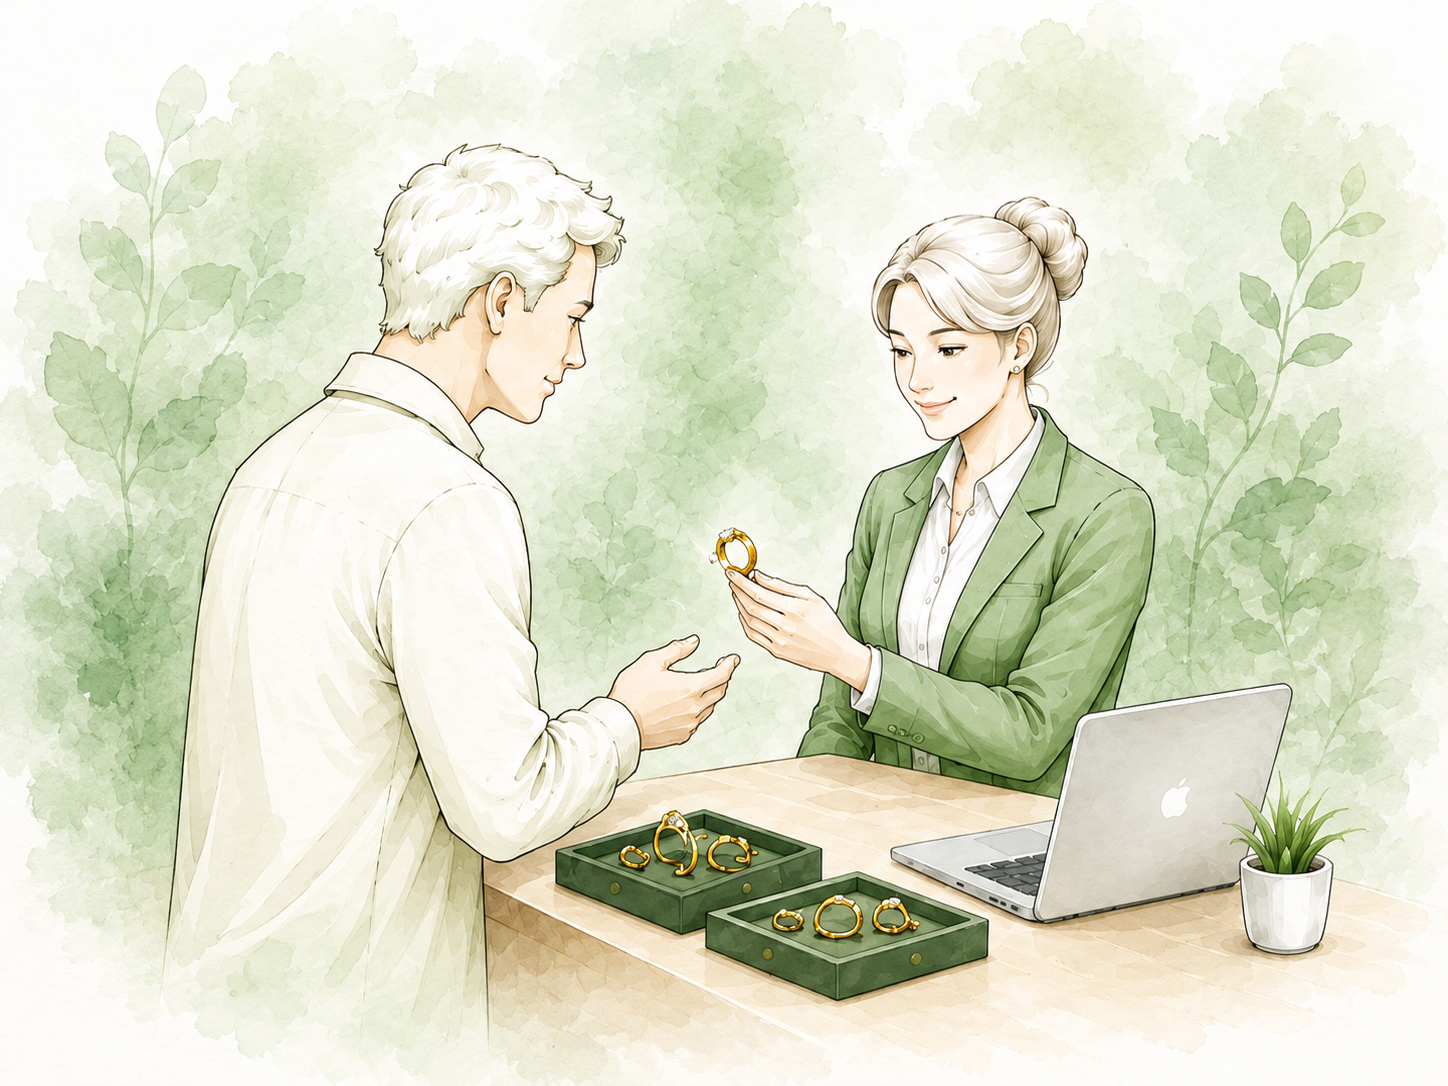
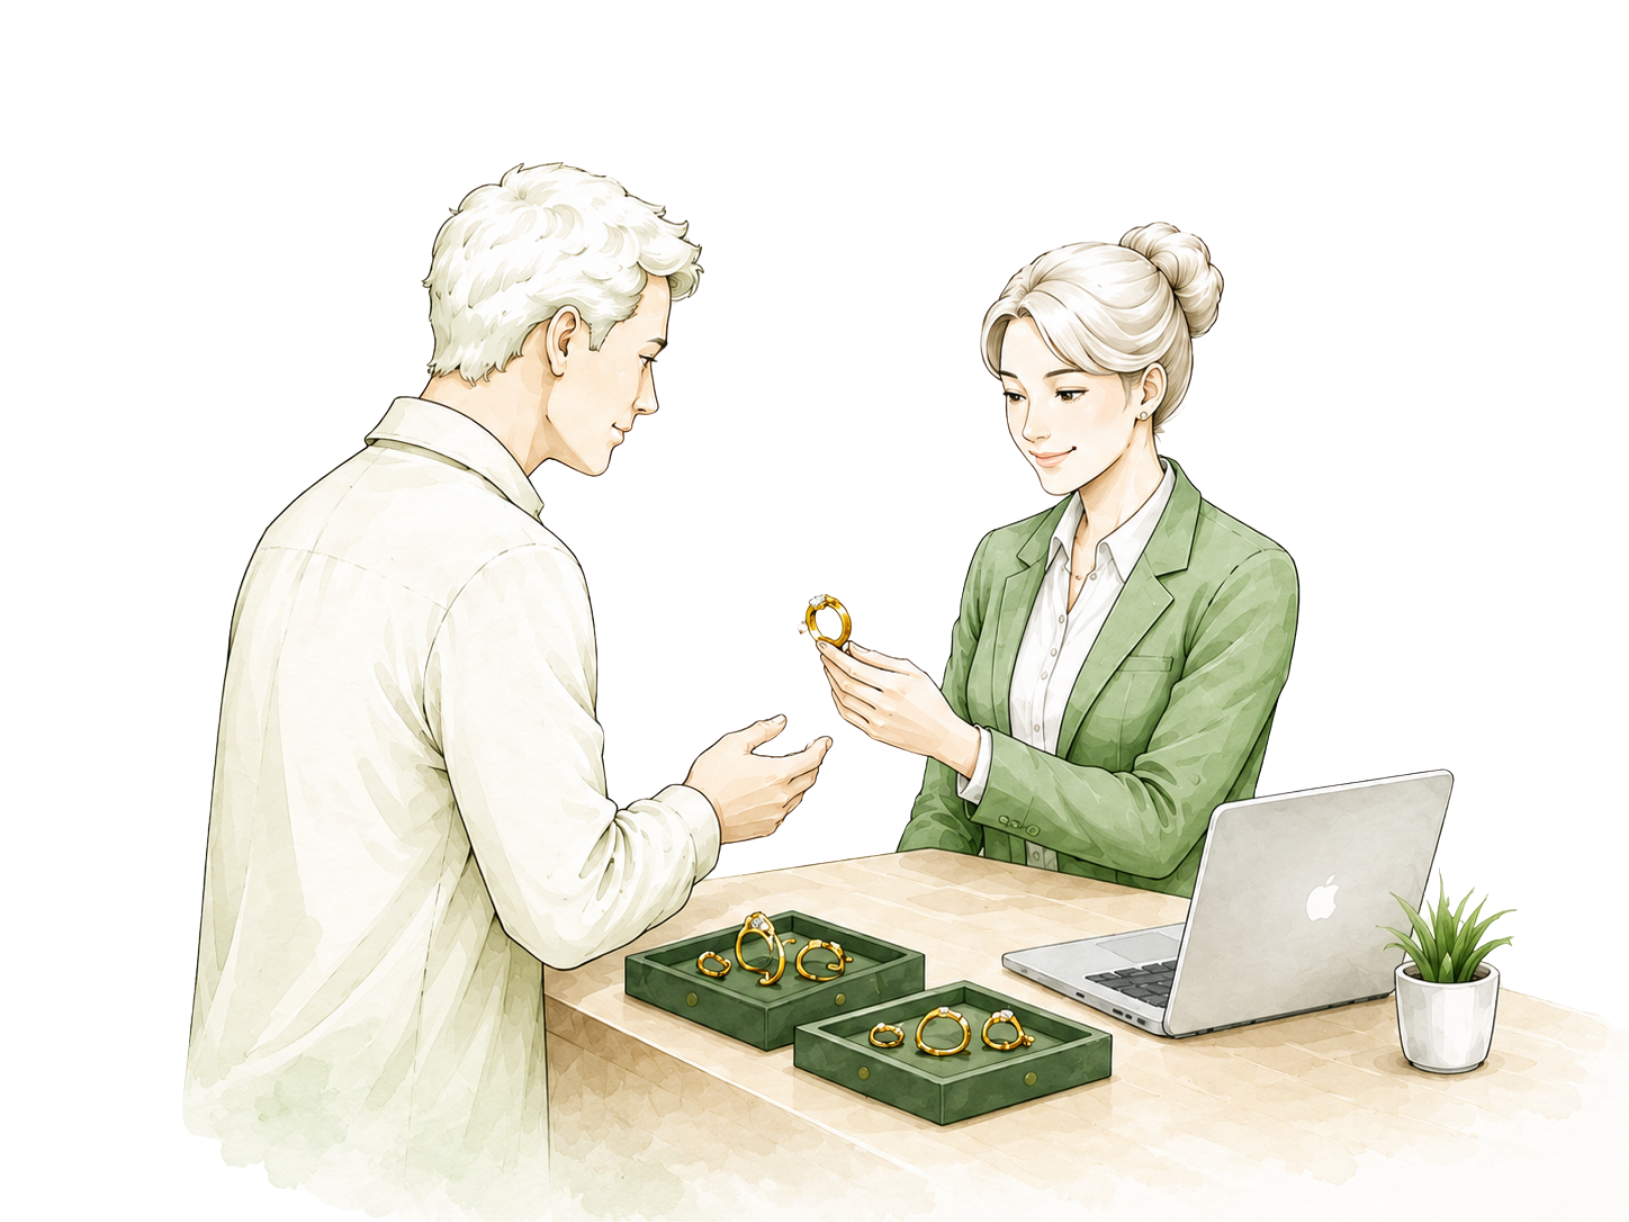
Center Dashboard title, update buyer & superadmin font to Plus Jakarta Sans, use background-less hero image

diff --git a/components/pages/superadmin-pages.tsx b/components/pages/superadmin-pages.tsx
@@ -1372,10 +1372,10 @@ export function SuperAdminDashboardPage({
           <div className="relative z-[1] flex h-full items-start px-4 pt-6 sm:px-6 sm:pt-7 lg:px-8 lg:pt-8">
             <div className="max-w-[45rem]">
               <WelcomeBrushBadge className="mb-4" />
-              <h1 className="mt-2 font-headline text-[2.25rem] font-black leading-[0.98] tracking-tight text-[#07593f] sm:text-[3.05rem] lg:text-[3.55rem]">
+              <h1 className="mt-2 font-sans text-[2.25rem] font-black leading-[0.98] tracking-tight text-[#07593f] sm:text-[3.05rem] lg:text-[3.55rem]">
                 Halo, Superadmin Nasional
               </h1>
-              <p className="mt-4 max-w-[39rem] text-[0.98rem] font-semibold leading-7 text-[#647067] sm:text-[1.05rem]">
+              <p className="mt-4 max-w-[39rem] font-sans text-[0.98rem] font-semibold leading-7 text-[#647067] sm:text-[1.05rem]">
                 Anda siap memantau kinerja unit, meninjau pelanggaran, dan
                 mengendalikan keputusan lintas cabang dari satu pusat kendali
                 yang ringkas.

diff --git a/components/pages/user-pages.tsx b/components/pages/user-pages.tsx
@@ -961,10 +961,10 @@ export function UserDashboardPage({
         <div className="absolute inset-0 bg-[linear-gradient(90deg,rgba(255,255,249,0.98)_0%,rgba(255,255,249,0.86)_42%,rgba(255,255,249,0.18)_78%)]" />
         <div className="relative flex min-h-[340px] max-w-3xl flex-col justify-center px-6 py-8 md:min-h-[380px] md:px-10">
           <WelcomeBrushBadge className="mb-4" />
-          <h1 className="mt-2 font-headline text-4xl font-black tracking-tight text-primary md:text-5xl">
+          <h1 className="mt-2 font-sans text-4xl font-black tracking-tight text-primary md:text-5xl">
             Halo, {buyer.name}
           </h1>
-          <p className="mt-4 max-w-xl text-sm leading-7 text-muted-foreground md:text-base">
+          <p className="mt-4 max-w-xl font-sans text-sm leading-7 text-muted-foreground md:text-base">
             Kami siap membantu Anda menemukan aset terbaik, memantau pembayaran, dan membuka nota
             transaksi dari satu ruang pembeli yang lebih ringkas.
           </p>

diff --git a/app/globals.css b/app/globals.css
@@ -3391,6 +3391,10 @@
 
 .admin-hero__eyebrow {
   margin-bottom: 18px;
+  display: flex;
+  flex-direction: column;
+  align-items: center;
+  width: fit-content;
 }
 
 .admin-hero__display-title {
@@ -3408,7 +3412,6 @@
   align-items: center;
   gap: 12px;
   margin-top: 6px;
-  margin-left: 48px;
   font-size: 13px;
   font-weight: 700;
   letter-spacing: 0.34em;
